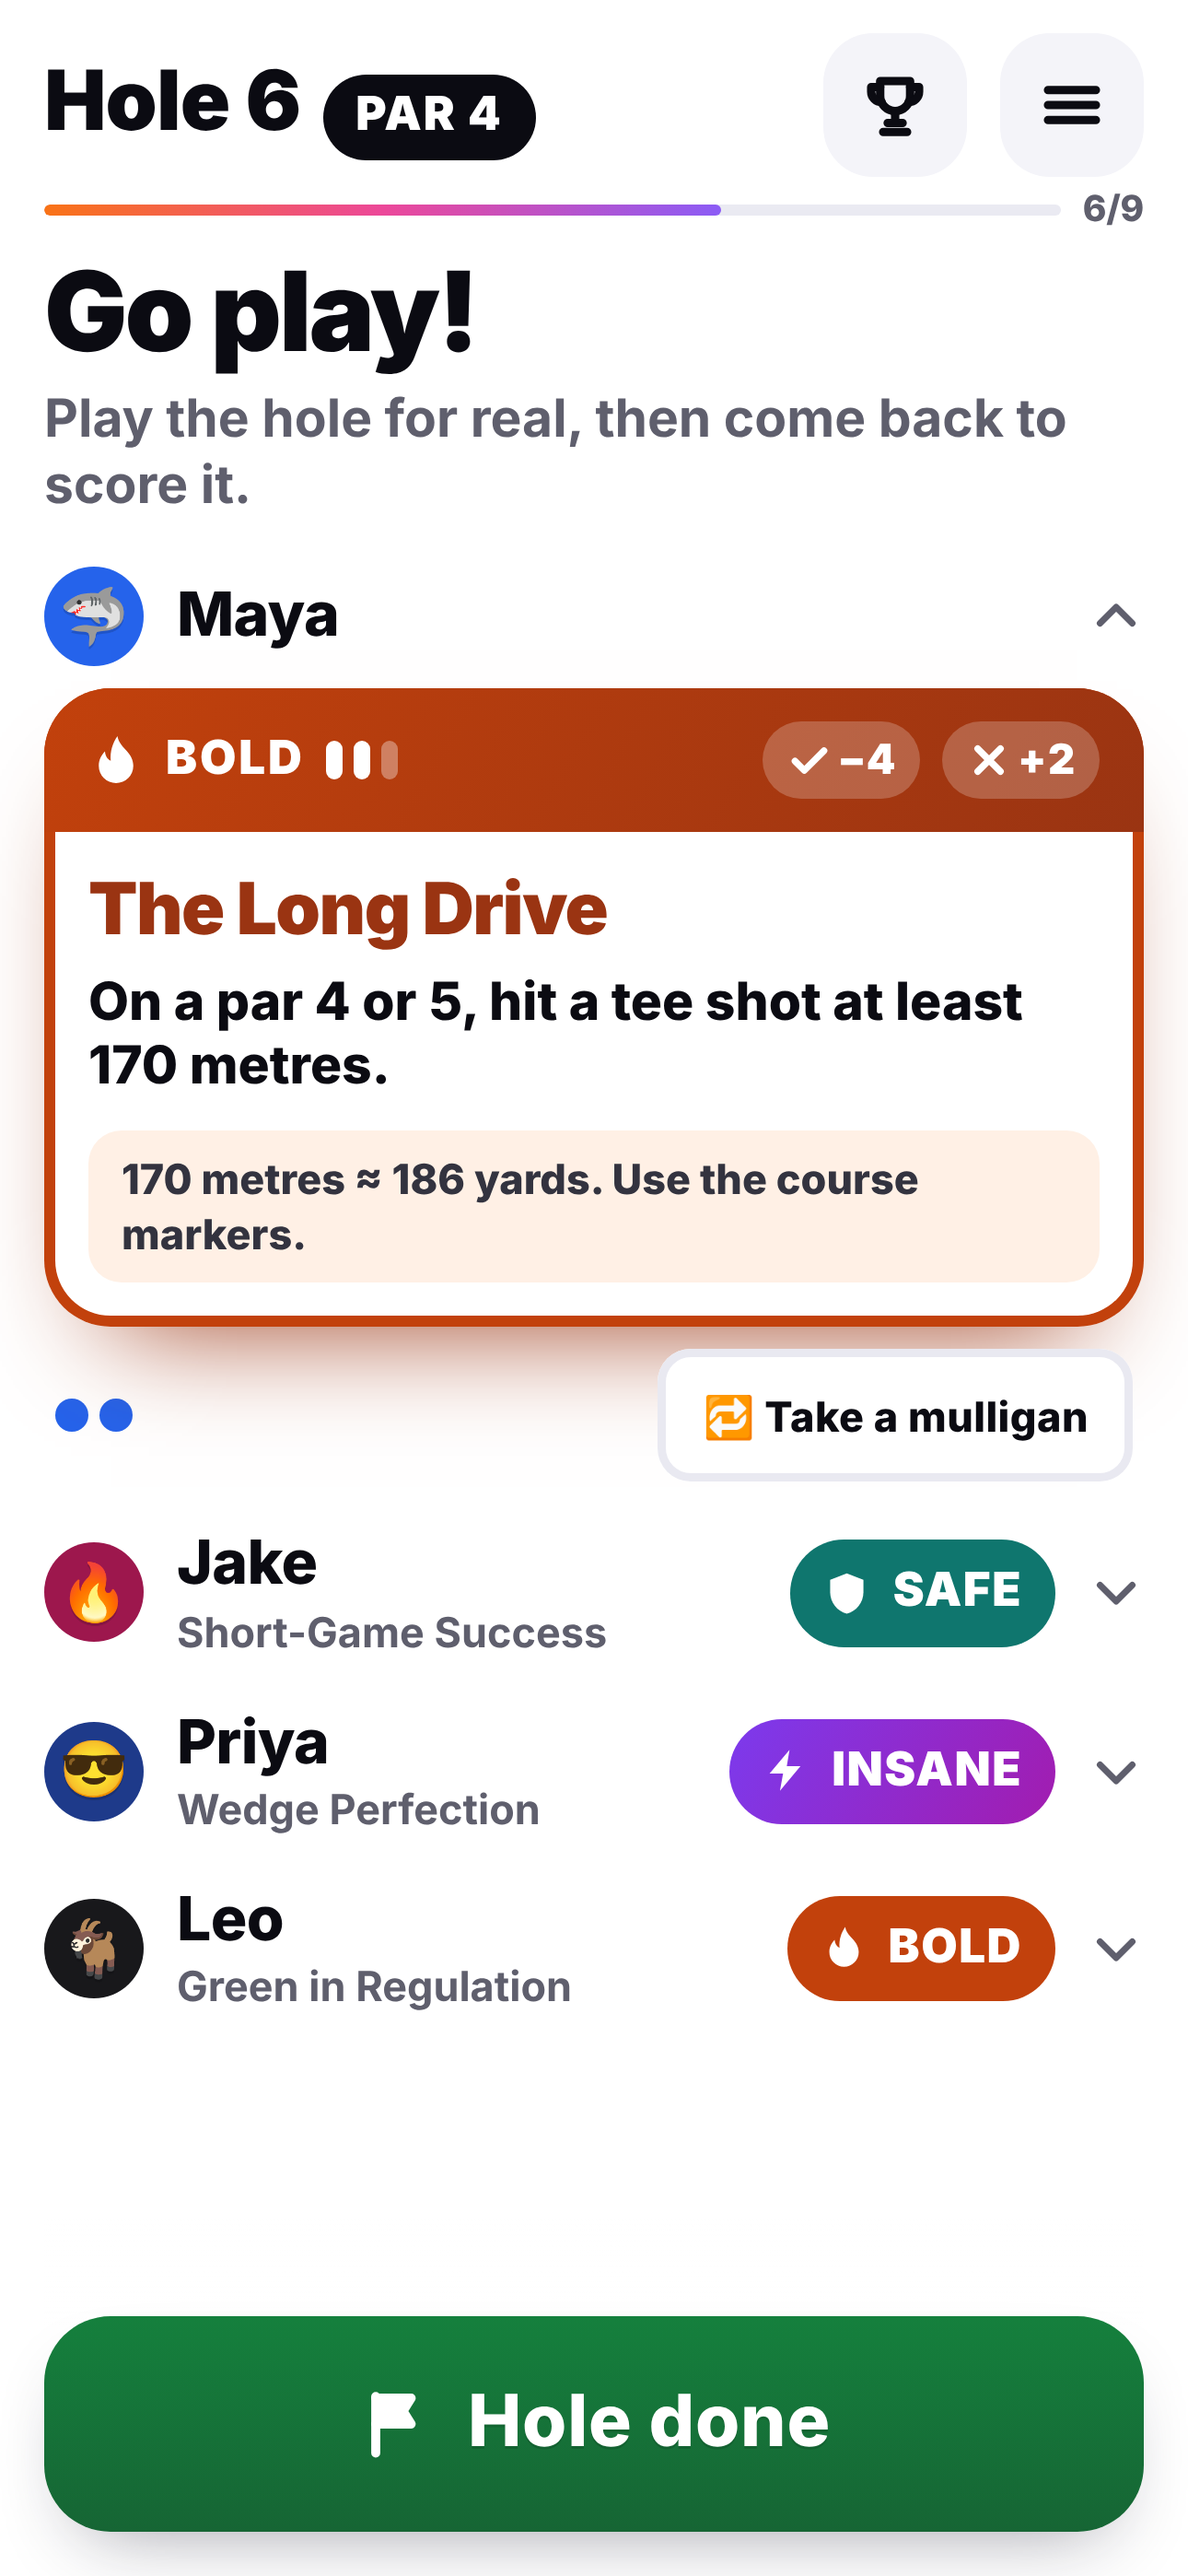
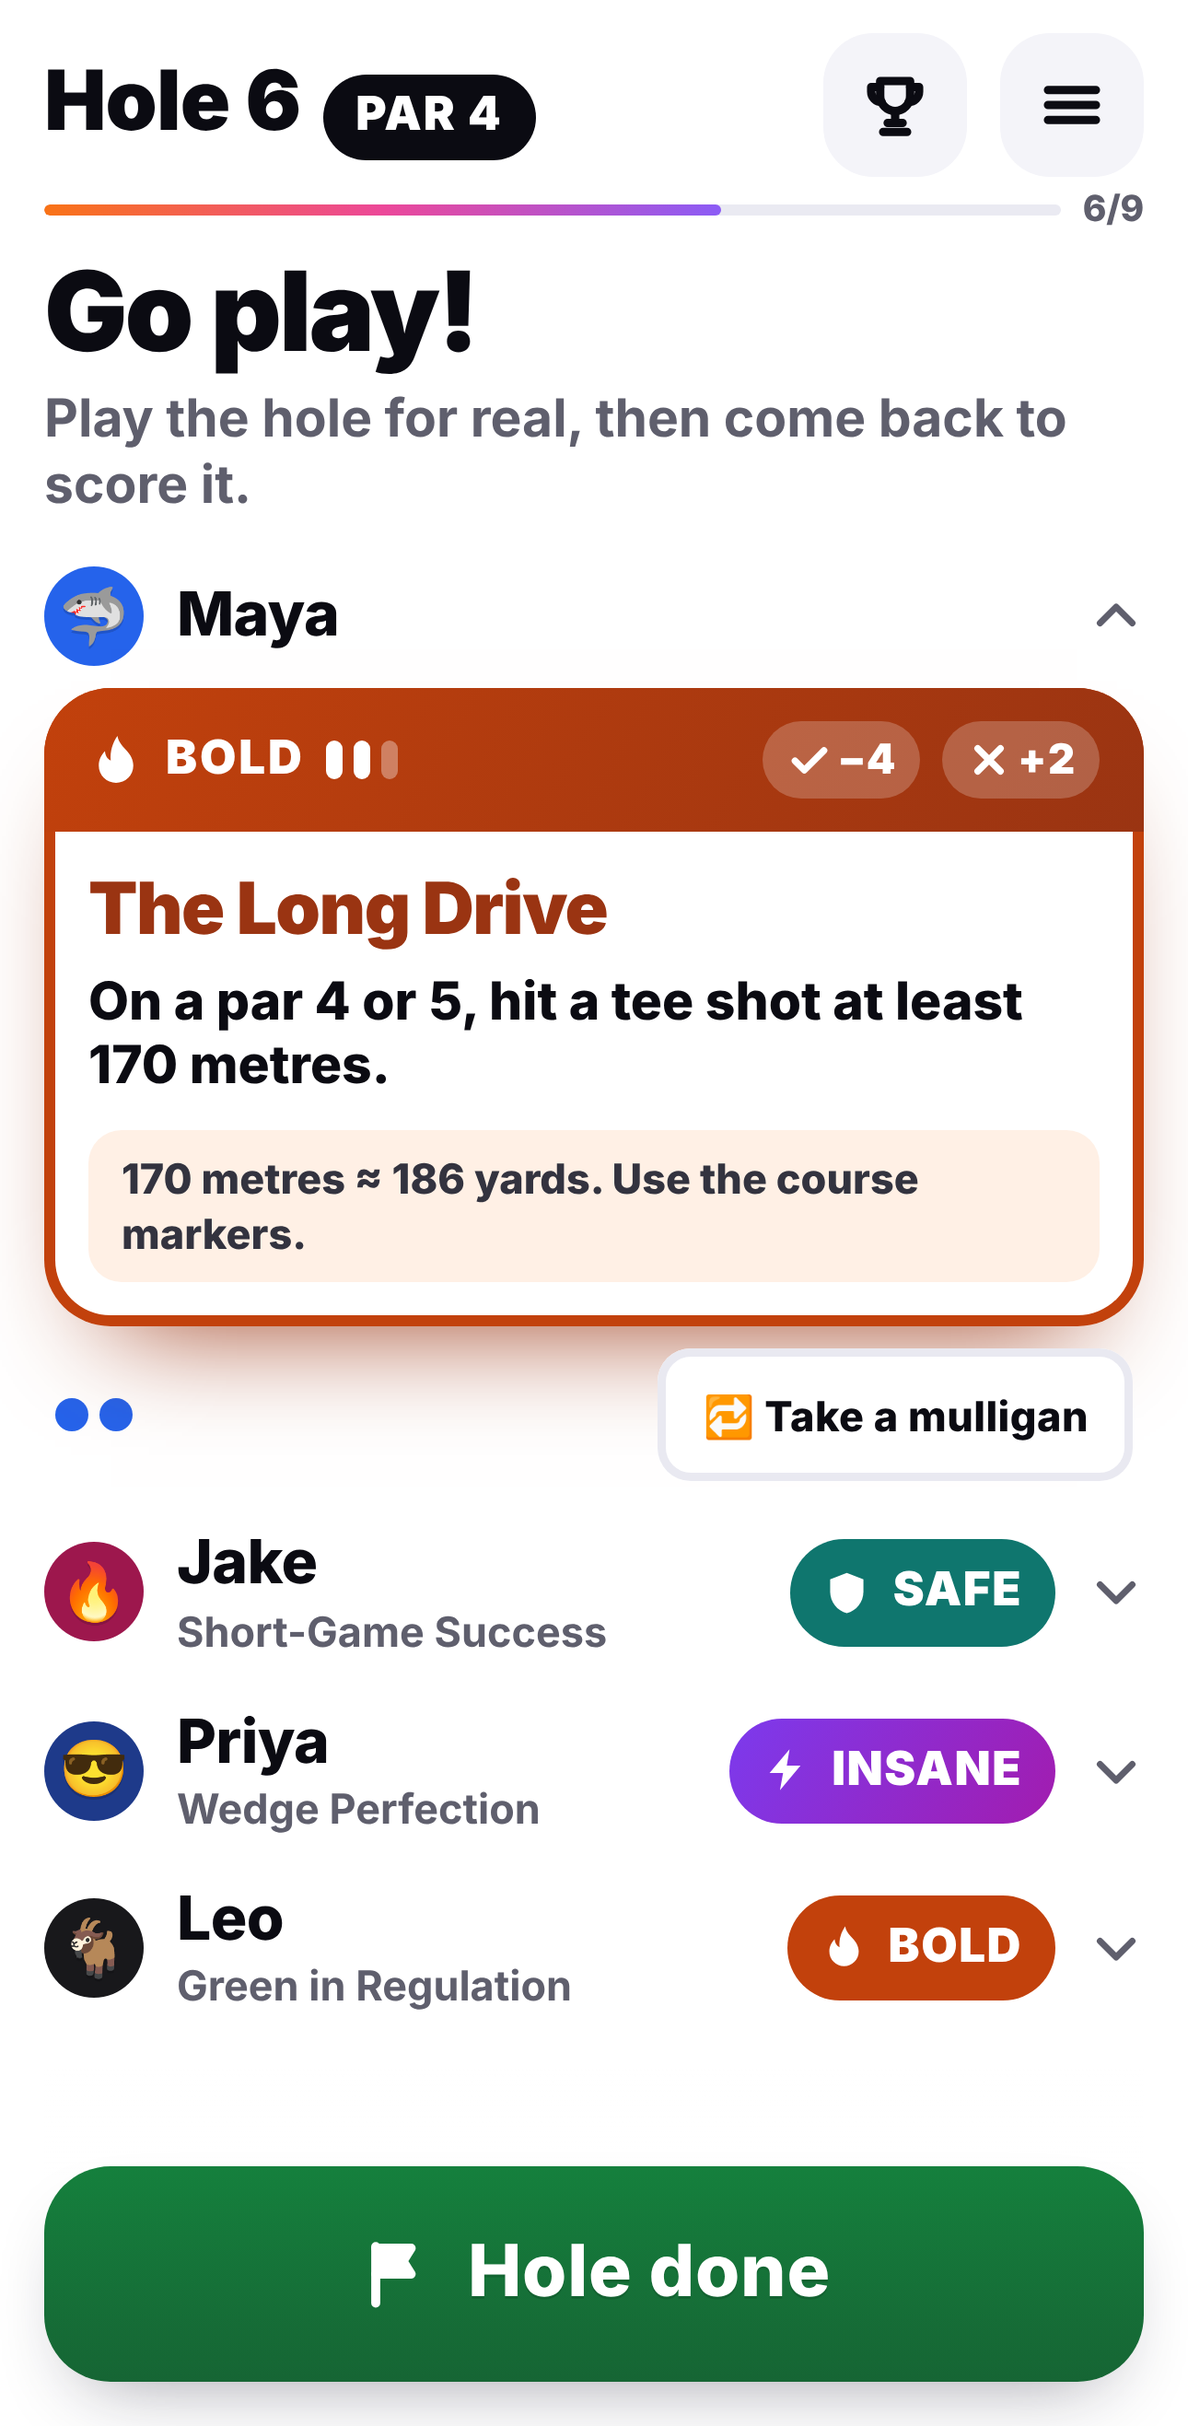
App Store cards: real iPhone proportions for the phones
The screens were captured at full Pro Max height and then had a status
bar added on top, which made every phone too tall. They're now captured
without the status bar's 54pt (430×878), so status bar plus screen
matches a real iPhone, and the phones are a little smaller (900px).

Claude-Session: https://claude.ai/code/session_01MGjt63x6kVnWVFgnnM8pxQ

diff --git a/marketing/app-store/cards.html b/marketing/app-store/cards.html
@@ -86,7 +86,7 @@
   .phone {
     flex: none;
     margin-top: 96px;
-    width: 980px;
+    width: 900px;
     padding: 24px;
     border-radius: 150px;
     background: linear-gradient(145deg, #3a3d48, #0d0e13 40%, #1c1d24);
@@ -104,7 +104,7 @@
   .screen img { display: block; width: 100%; }
   /* Status bar and Dynamic Island, so the capture reads as a phone. */
   .status {
-    height: 118px;
+    height: 107px;
     background: #fff;
     display: flex;
     align-items: center;
@@ -292,7 +292,7 @@
   <h1>Crown a winner</h1>
   <p class="sub">Plus awards for the comeback and the daredevil.</p>
   <div class="phone small" style="width: 700px; padding: 18px; border-radius: 110px; margin-top: 80px">
-    <div class="screen" style="border-radius: 94px"><div class="island" style="width: 190px; height: 54px; top: 20px"></div><div class="status" style="height: 90px; font-size: 31px; padding: 12px 70px 0 86px">9:41<span></span></div><img src="screens/final.png" /></div>
+    <div class="screen" style="border-radius: 94px"><div class="island" style="width: 190px; height: 54px; top: 20px"></div><div class="status" style="height: 82px; font-size: 31px; padding: 12px 70px 0 86px">9:41<span></span></div><img src="screens/final.png" /></div>
   </div>
   <div class="awards">
     <div class="award" style="transform: rotate(-4deg); --x: 48; --y: 796"></div>

diff --git a/marketing/app-store/capture.config.ts b/marketing/app-store/capture.config.ts
@@ -1,5 +1,6 @@
 // Captures the app screens used on the App Store cards: a seeded 4-player round on an
-// iPhone Pro Max-sized screen (430×932 at 3×, so 1290×2796 screenshots).
+// iPhone Pro Max-sized screen at 3×. The height leaves out the 54pt status bar (932 − 54),
+// which cards.html draws back in, so the framed phone has a real iPhone's proportions.
 // Run: npm run store:capture
 import { fileURLToPath } from 'node:url';
 import base from '../../playwright.config';
@@ -11,7 +12,7 @@ export default {
   testDir: '.',
   testMatch: 'capture.spec.ts',
   timeout: 180_000,
-  use: { ...base.use, viewport: { width: 430, height: 932 }, deviceScaleFactor: 3 },
+  use: { ...base.use, viewport: { width: 430, height: 878 }, deviceScaleFactor: 3 },
   // The dev server runs from the repo root, not this folder.
   webServer: base.webServer && { ...base.webServer, cwd: root },
 };

diff --git a/marketing/app-store/README.md b/marketing/app-store/README.md
@@ -18,7 +18,7 @@ Every phone screen is the real app, captured from a seeded four-player round.
 ## How they're made
 
 - `seed.ts` plays a believable round through the real game engine (`src/game`) and saves it to `seed/`.
-- `capture.spec.ts` loads that round in the app on a 430 × 932 screen at 3× and saves `screens/`.
+- `capture.spec.ts` loads that round in the app on a 430 × 878 screen at 3× (a Pro Max minus its status bar) and saves `screens/`.
 - `cards.html` lays out each card: caption, phone frame, real screen. `render.mjs` saves `out/`.
 
 ```
